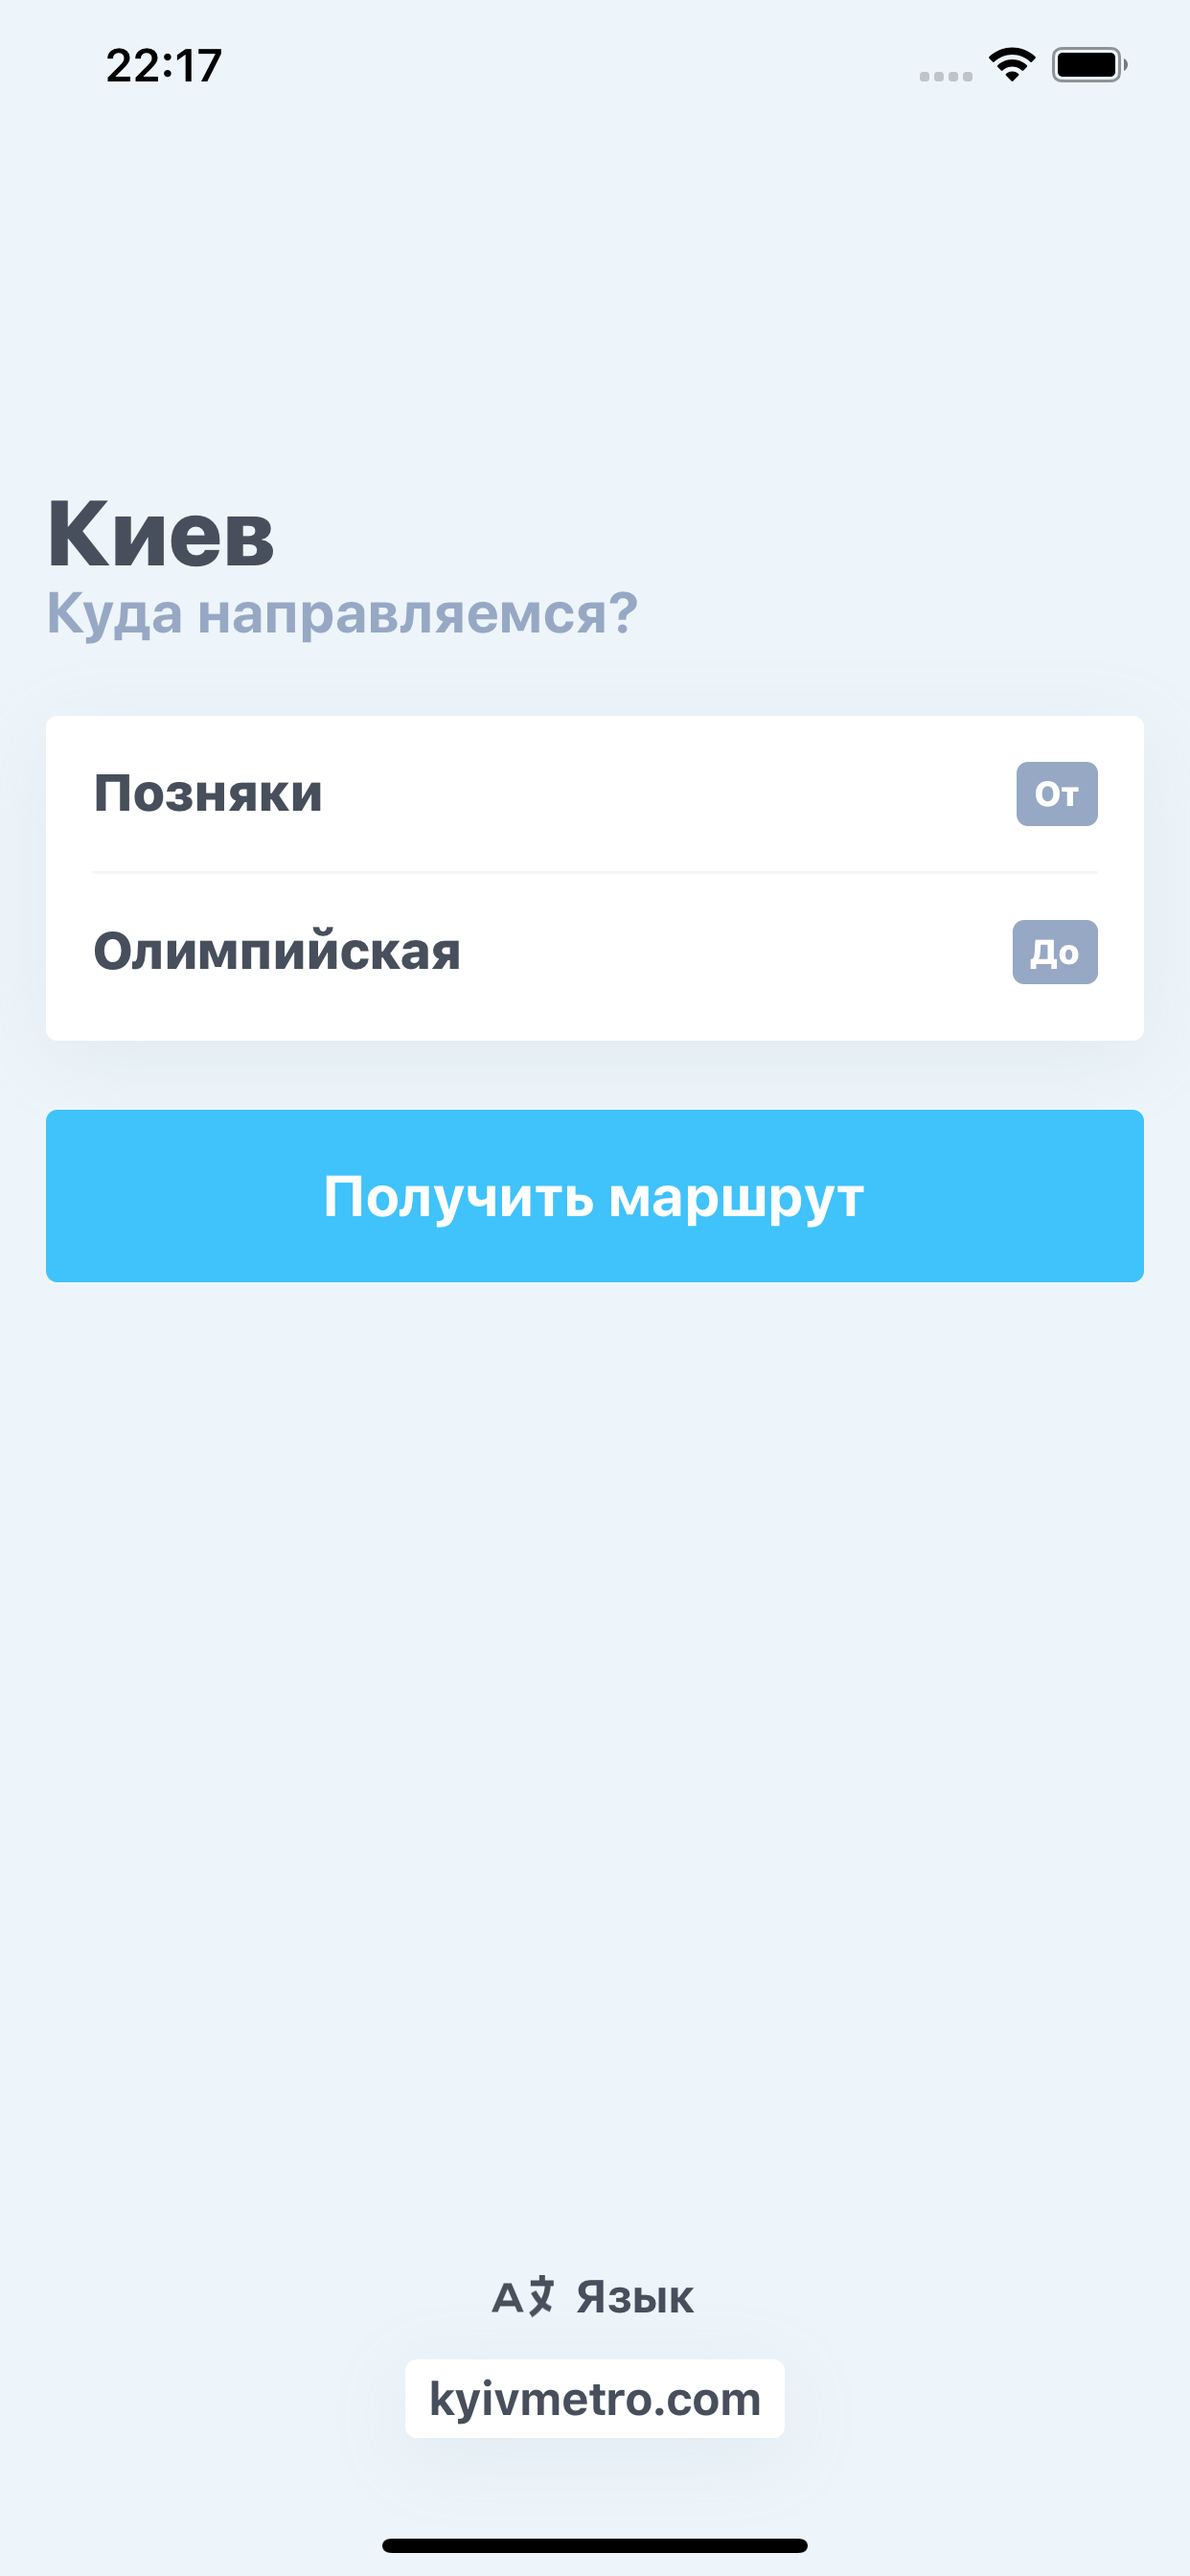
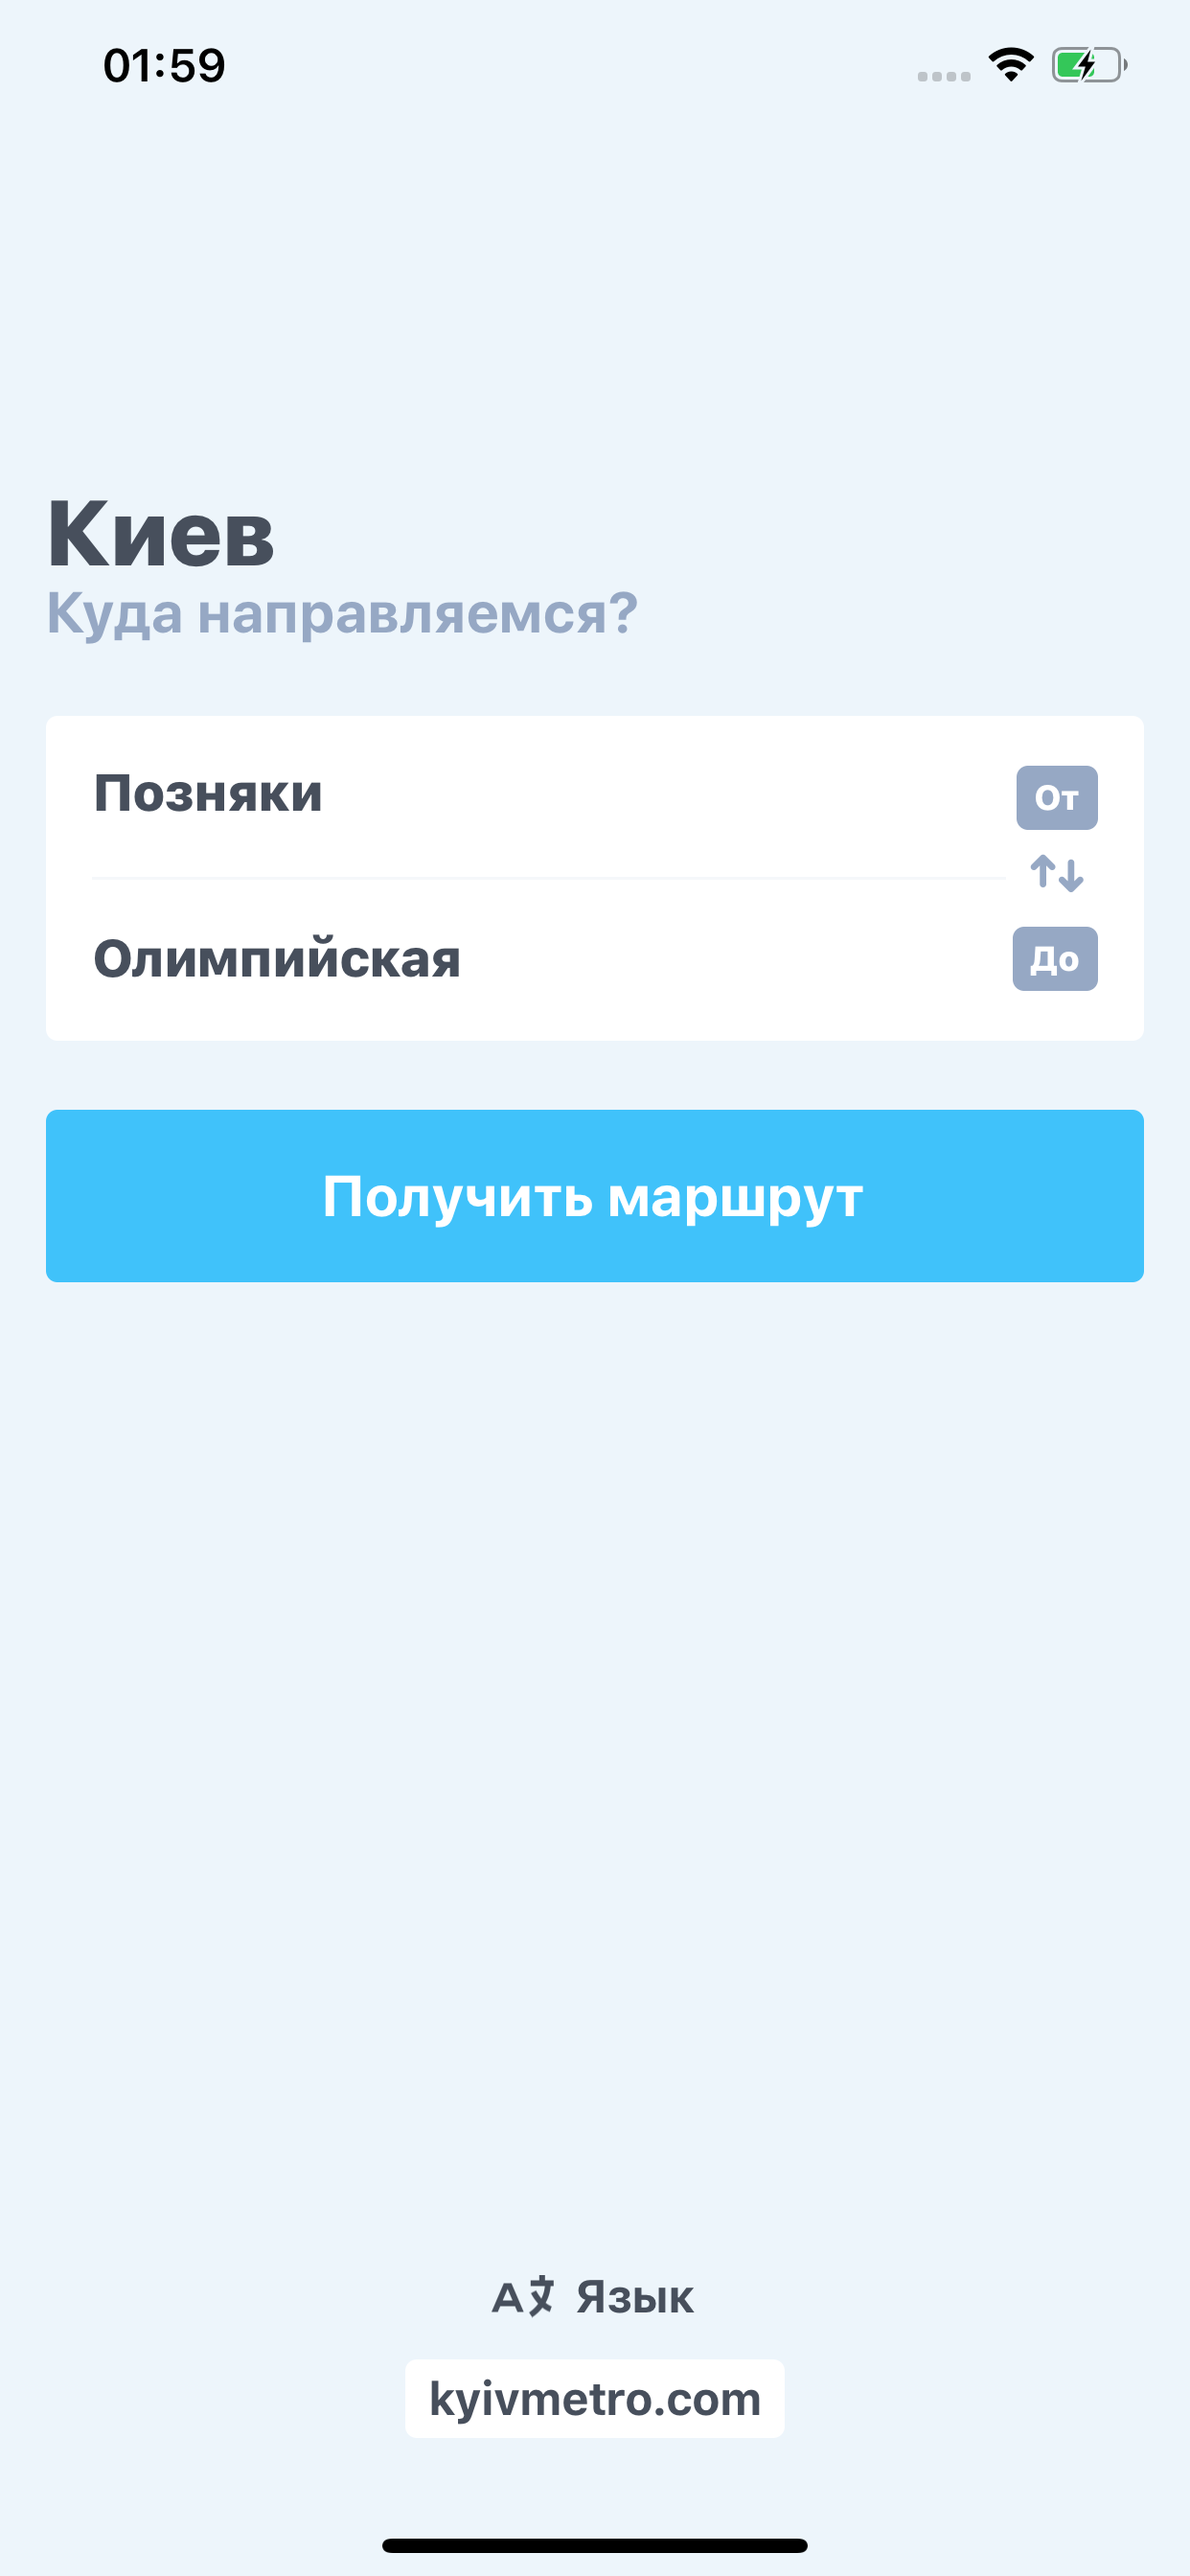
Added dark mode

diff --git a/src/pages/Home.js b/src/pages/Home.js
@@ -2,26 +2,57 @@ import React, { Component } from 'react'
 import { Link } from 'react-router-dom'
 import { injectIntl, FormattedMessage } from 'react-intl'
 import { Helmet } from 'react-helmet'
+import ReactSVG from 'react-svg'
 
 import metro from '../media/metro.svg'
-import languages from '../media/languages.svg'
 import styles from './Home.module.scss'
 
 import { Button, DevicePreview } from '../components'
 
 export default injectIntl(class HomePage extends Component {
+	state = {
+		supportsColorScheme: false,
+		isDarkMode: false,
+		isLightMode: false
+	}
+
+	mediaQueryUpdated = mediaQuery => {
+		const isDarkMode = mediaQuery.matches
+
+		this.setState({ isDarkMode })
+	}
+
+	UNSAFE_componentWillMount() {
+		const mobileQuery = window.matchMedia('(prefers-color-scheme: dark)')
+
+		this.mediaQueryUpdated(mobileQuery)
+		mobileQuery.addListener(this.mediaQueryUpdated)
+	}
+
 	render() {
 		const { intl } = this.props
+		const { isDarkMode } = this.state
 
 		return (
 			<div className={styles.wrapping}>
 				<Helmet>
 					<title>{intl.formatMessage({ id: 'app_name' })}</title>
+					{/*<meta property="og:title" content={intl.formatMessage({ id: 'app_name' })} />
+				<meta name="twitter:title" content={intl.formatMessage({ id: 'app_name' })} />
+				<meta property="og:description" content={intl.formatMessage({ id: 'app_description' })} />
+				<meta name="twitter:description" content={intl.formatMessage({ id: 'app_description' })} />*/}
 				</Helmet>
 
 				<div className={styles.content}>
 					<DevicePreview>
-						<img src={intl.formatMessage({ id: 'app_home_screenshot' })} alt="App screenshot" />
+						<img
+							alt="App screenshot"
+							src={intl.formatMessage({
+								id: isDarkMode
+									? 'app_home_screenshot_dark'
+									: 'app_home_screenshot'
+							})}
+						/>
 					</DevicePreview>
 
 					<div className={styles.info}>
@@ -38,18 +69,30 @@ export default injectIntl(class HomePage extends Component {
 							target="_blank"
 							rel="noopener noreferrer"
 							className={styles.appStore}
-							href={intl.formatMessage({ id: 'app_app_store_link' })}
+							href={intl.formatMessage({
+								id: 'app_app_store_link'
+							})}
 						>
-							<img width="120" height="40" src={`/app-store/${intl.locale}.svg`} alt={intl.formatMessage({ id: 'app_app_store_download' })} />
+							<img
+								width="120"
+								height="40"
+								src={`/app-store/${intl.locale}.svg`}
+								alt={intl.formatMessage({
+									id: 'app_app_store_download'
+								})}
+							/>
 						</a>
 					</div>
 				</div>
 
-				<Link
-					to="/languages"
-					className={styles.languages}
-				>
-					<img loading="lazy" width="22" height="18" src={languages} alt={intl.formatMessage({ id: 'app_language' })} /> <FormattedMessage id="app_language" />
+				<Link to="/languages" className={styles.languages}>
+					<ReactSVG
+						width="22"
+						height="18"
+						src="languages.svg"
+						alt={intl.formatMessage({ id: 'app_language' })}
+					/>
+					<FormattedMessage id="app_language" />
 				</Link>
 
 				<Link

diff --git a/src/pages/Languages.module.scss b/src/pages/Languages.module.scss
@@ -49,6 +49,13 @@
 	display: flex;
 	justify-content: space-between;
 	align-items: center;
+	color: $black;
+
+	@media (prefers-color-scheme: dark) {
+		border: 1px solid rgba($dark, 0.25);
+		background: $box-dark;
+		color: $white;
+	}
 
 	&Info {
 		display: flex;
@@ -108,4 +115,26 @@
 .input {
 	flex: 1;
 	margin-right: 1.5rem;
+
+	@media (prefers-color-scheme: dark) {
+		border: 1px solid rgba($dark, 0.25);
+		background: $box-dark;
+		color: $white;
+
+		&::placeholder { /* Chrome, Firefox, Opera, Safari 10.1+ */
+			color: rgba($white, 0.5);
+			opacity: 1; /* Firefox */
+			font-weight: 500;
+		}
+
+		&:-ms-input-placeholder { /* Internet Explorer 10-11 */
+			color: rgba($white, 0.5);
+			font-weight: 500;
+		}
+
+		&::-ms-input-placeholder { /* Microsoft Edge */
+			color: rgba($white, 0.5);
+			font-weight: 500;
+		}
+	}
 }

diff --git a/src/components/Input.module.scss b/src/components/Input.module.scss
@@ -8,24 +8,28 @@
 	border-radius: 0.25rem;
 	box-shadow: 0 0.5rem 0.875rem rgba($black, 0.05);
 	color: $black;
+	font-family: $font-family;
 
 	&:focus {
 		outline: rgba($primary, 0.5) 0.125rem solid;
 		box-shadow: 0 0.5rem 0.875rem rgba($primary, 0.25);
 	}
 
-	&::placeholder { /* Chrome, Firefox, Opera, Safari 10.1+ */
+	&::placeholder {
+		/* Chrome, Firefox, Opera, Safari 10.1+ */
 		color: rgba($black, 0.5);
 		opacity: 1; /* Firefox */
 		font-weight: 500;
 	}
 
-	&:-ms-input-placeholder { /* Internet Explorer 10-11 */
+	&:-ms-input-placeholder {
+		/* Internet Explorer 10-11 */
 		color: rgba($black, 0.5);
 		font-weight: 500;
 	}
 
-	&::-ms-input-placeholder { /* Microsoft Edge */
+	&::-ms-input-placeholder {
+		/* Microsoft Edge */
 		color: rgba($black, 0.5);
 		font-weight: 500;
 	}

diff --git a/src/components/Button.js b/src/components/Button.js
@@ -4,10 +4,18 @@ import styles from './Button.module.scss'
 
 export default class Button extends Component {
 	render() {
-		const { children, className, ...rest } = this.props
+		const { children, color, size, className, ...rest } = this.props
+
+		const styleClass = classnames({
+			[styles.buttonPrimary]: color === 'primary',
+			[styles.buttonLarge]: size === 'large'
+		})
 
 		return (
-			<button className={classnames(styles.button, className)} {...rest}>
+			<button
+				className={classnames(styles.button, styleClass, className)}
+				{...rest}
+			>
 				{children}
 			</button>
 		)

diff --git a/src/components/Button.module.scss b/src/components/Button.module.scss
@@ -7,10 +7,26 @@
 	padding: 0.375rem 0.75rem;
 	font-size: 1rem;
 	border: 0;
-
+	font-family: $font-family;
 	color: $black;
 	background: $white;
 	box-shadow: 0 0.5rem 0.875rem rgba($black, 0.1);
+
+	@media (prefers-color-scheme: dark) {
+		color: $background-dark;
+	}
+
+	&Primary {
+		background: $primary;
+		color: $white;
+		box-shadow: 0 0.5rem 0.875rem rgba($primary, 0.1);
+	}
+
+	&Large {
+		padding: 18px 0.75rem;
+		font-size: 1.25rem;
+		font-weight: bold;
+	}
 
 	&:focus {
 		outline: rgba($primary, 0.5) 0.125rem solid;

diff --git a/src/App.module.scss b/src/App.module.scss
@@ -2,7 +2,9 @@
 @import-normalize;
 
 :global {
-	html, body, .root {
+	html,
+	body,
+	.root {
 		width: 100%;
 		display: flex;
 		flex-wrap: wrap;
@@ -12,8 +14,13 @@
 		overflow-x: hidden;
 		color: $black;
 		margin: 0;
-		font-family: 'Helvetica Neue', Helvetica;
+		font-family: $font-family;
 		background: $background;
+
+		@media (prefers-color-scheme: dark) {
+			background: $background-dark;
+			color: $white;
+		}
 	}
 
 	a {

diff --git a/src/pages/Home.module.scss b/src/pages/Home.module.scss
@@ -65,15 +65,19 @@
 	font-weight: 500;
 	text-underline-position: under;
 	cursor: pointer;
-	color: $black;
 	margin-bottom: 1rem;
 	display: flex;
+	color: $black;
+
+	@media (prefers-color-scheme: dark) {
+		color: $white;
+	}
 
 	&:hover {
 		text-decoration: underline;
 	}
 
-	img {
+	svg {
 		margin-right: 0.25rem;
 	}
 }

diff --git a/src/css/variables.scss b/src/css/variables.scss
@@ -5,3 +5,7 @@ $secondary: #fe8f8f;
 $tertiary: #53e69d;
 $dark: #97a9c5;
 $background: #edf5fb;
+$background-dark: #20212b;
+$box-dark: rgba($primary, 0.05);
+
+$font-family: 'Helvetica Neue', Helvetica;
